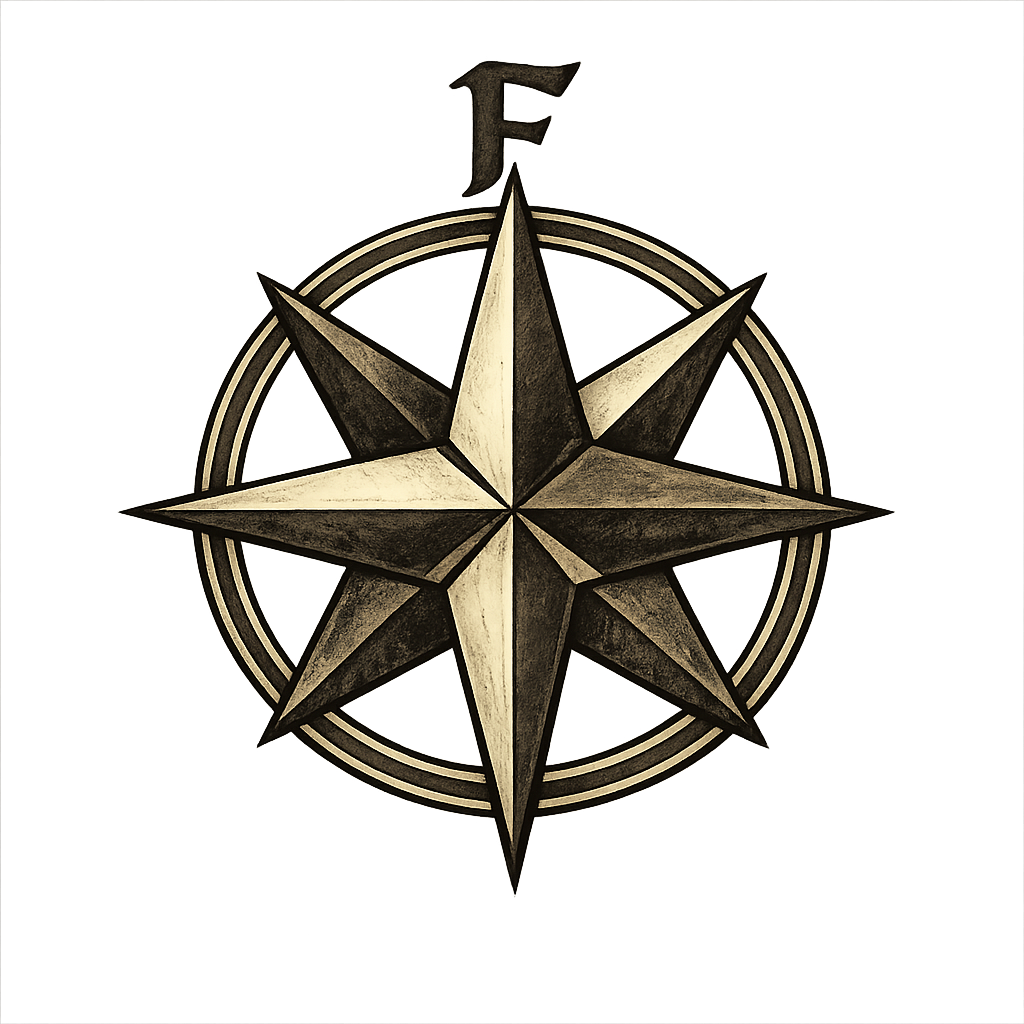
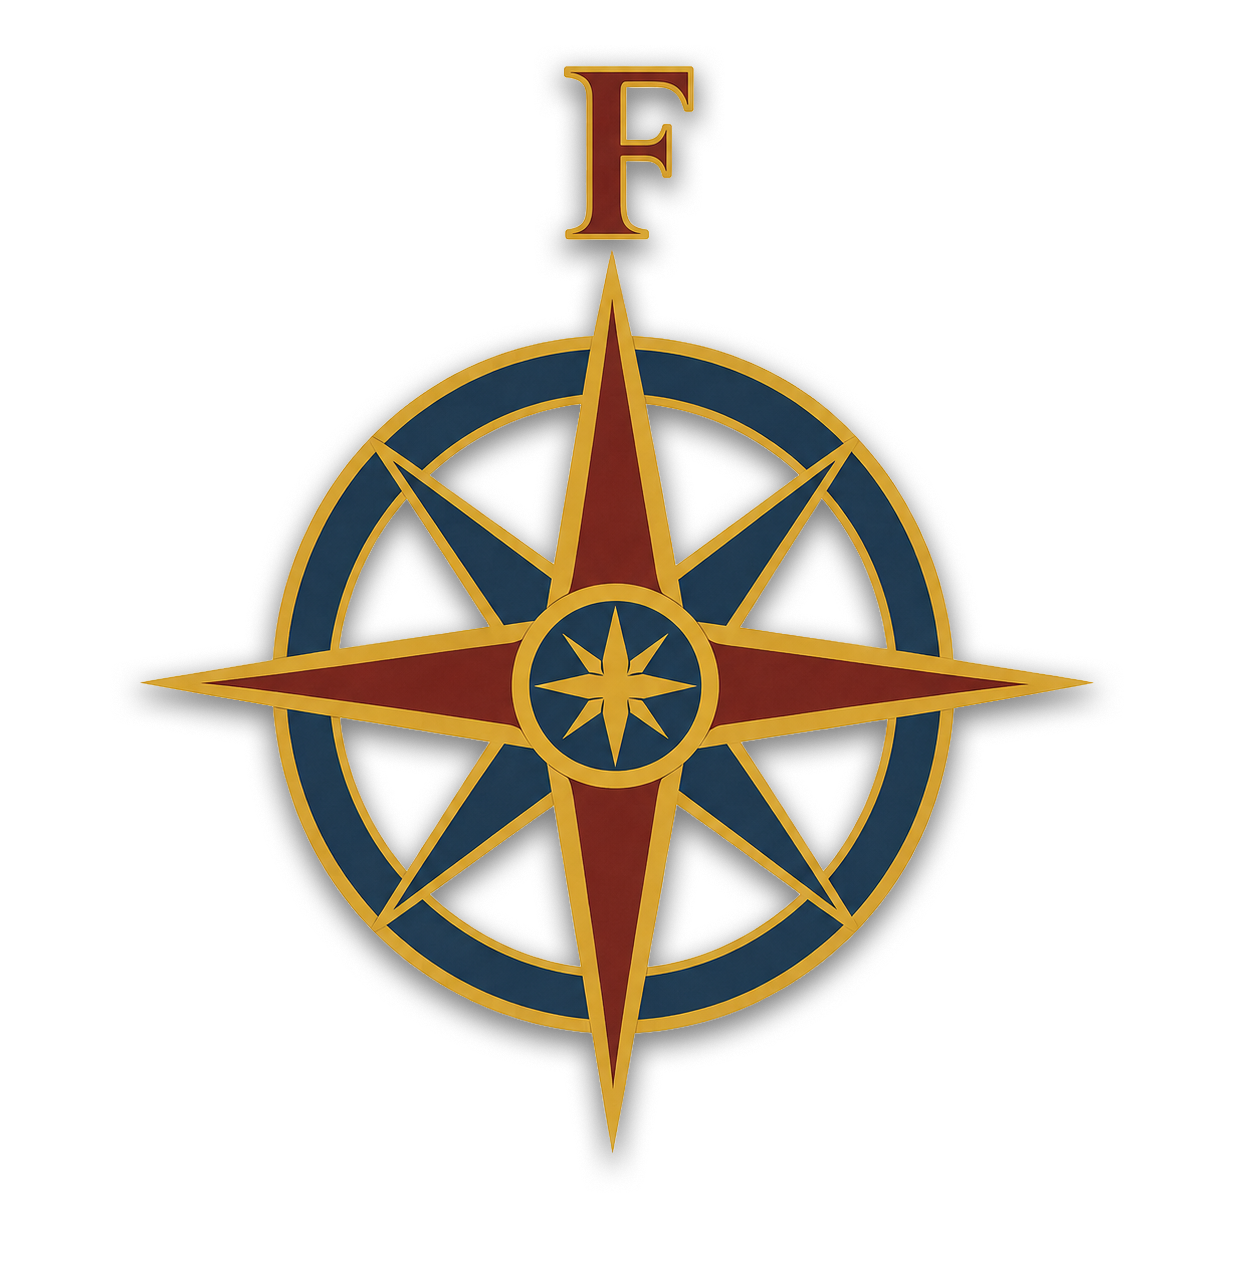
Randomize compass decoration

diff --git a/js/config.js b/js/config.js
@@ -10,9 +10,20 @@ const MAP_BOUNDS = [
 	[0, 0],
 	[IMG_WIDTH, IMG_HEIGHT],
 ];
+const COMPASS_DECORATION_SOURCES = [
+	"img/compass1.png",
+	"img/compass2.png",
+	"img/compass3.png",
+	"img/compass4.png",
+];
+
+function getRandomCompassDecorationSource() {
+	return COMPASS_DECORATION_SOURCES[Math.floor(Math.random() * COMPASS_DECORATION_SOURCES.length)];
+}
+
 const MAP_DECORATION_CONFIG = {
 	compass: {
-		src: "img/compass3.png",
+		src: getRandomCompassDecorationSource(),
 		coordinates: [18, 1006],
 		size: [96, 94],
 		anchor: [96, 94],
